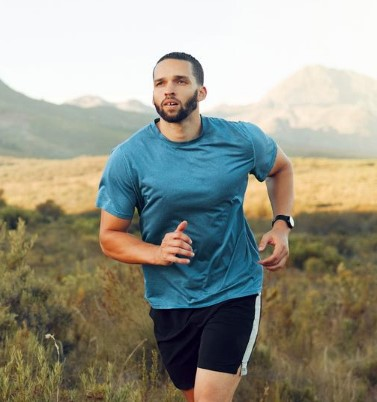
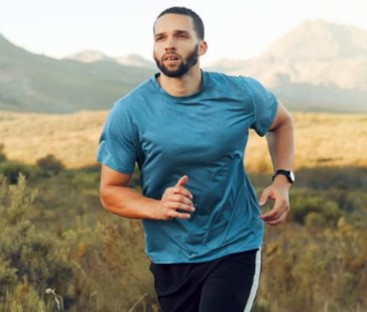
responsive issue fixed

diff --git a/index.html b/index.html
@@ -86,7 +86,7 @@
             <div class="run-container">
                 <div class="run-text">
                     <h1 class="section-title">Run an Extra Mile Easily</h1>
-                    <p class="section-description">We believe fitness should be accessible to everyone,everywhere, regardless of income or access to a gym. With hundreds of professional workouts.</p>
+                    <p class="section-description left-text">We believe fitness should be accessible to everyone,everywhere, regardless of income or access to a gym. With hundreds of professional workouts.</p>
                     <button class="btn-primary">Join Now</button>
                 </div>
                <div class="run-img">
@@ -274,11 +274,9 @@
 
     <footer class="">
         <div class="footer-container">
-            <div>
+            <div class="footer-text">
                 <h1 class="footer-title"><i>Fitness</i></h1>
-                <p class="section-description">We believe fitness should be accessible to everyone, <br>
-                    everywhere, regardless of income or access to a gym. With <br>
-                    hundreds of professional workouts.</p>
+                <p class="section-description left-text">We believe fitness should be accessible to everyone,everywhere, regardless of income or access to a gym. With hundreds of professional workouts.</p>
             </div>
             <div>
                 <h2 class="link-title">Get Started</h2>
@@ -308,7 +306,7 @@
         <div>
 
             <hr>
-            <p class="credit text-center"><small>All right reserved @Mir Md Salman Farsi</small></p>
+            <p class="credit text-center"><small>All Right Reserved @Mir Md Salman Farsi</small></p>
         </div>
     </footer>
     

diff --git a/style.css b/style.css
@@ -228,6 +228,7 @@ nav li a {
     background-color: rgba(34, 34, 34, 1);
     border-radius: 20px;
     padding: 30px;
+    align-items: center;
 
 }
 
@@ -249,7 +250,8 @@ nav li a {
 }
 
 .run-img {
-    width: 400px;
+    width: 366px;
+    height: 312px;
 }
 
 
@@ -258,7 +260,7 @@ nav li a {
     display: flex;
     justify-content: space-around;
     margin: 20px 150px;
-    gap: 10px;
+    gap: 20px;
     padding-top: 52px;
     padding-bottom: 52px;
 }
@@ -368,6 +370,7 @@ select {
     padding: 20px;
     background-color: rgb(56, 52, 48);
     border-radius: 10px;
+    justify-items: center;
 }
 
 .profile {
@@ -425,6 +428,9 @@ footer {
     padding-bottom: 50px;
 
 
+}
+.footer-text{
+    width: 42%;
 }
 
 .footer-title {
@@ -626,8 +632,7 @@ small {
     }
 
     .run-img {
-        width: 285px;
-        height: 170px;
+        
         margin-top: 20px;
     }
 
@@ -636,7 +641,7 @@ small {
     }
 
     .run-text .section-description {
-        text-align: justify;
+      
     }
 
     .run-text {
@@ -652,6 +657,7 @@ small {
     .offer-container{
         flex-direction: column;
         gap: 20px;
+        justify-content: center;
     }
     .offer-section{
         margin: 40px 20px;
@@ -720,9 +726,12 @@ small {
     }
 
     .footer-container .section-description {
-        text-align: justify;
-        font-size: 16px;
-        width: 315px;
+        
+        font-size: 1rem;
+        
+    }
+    .footer-text{
+        width: 90%;
     }
 
 
